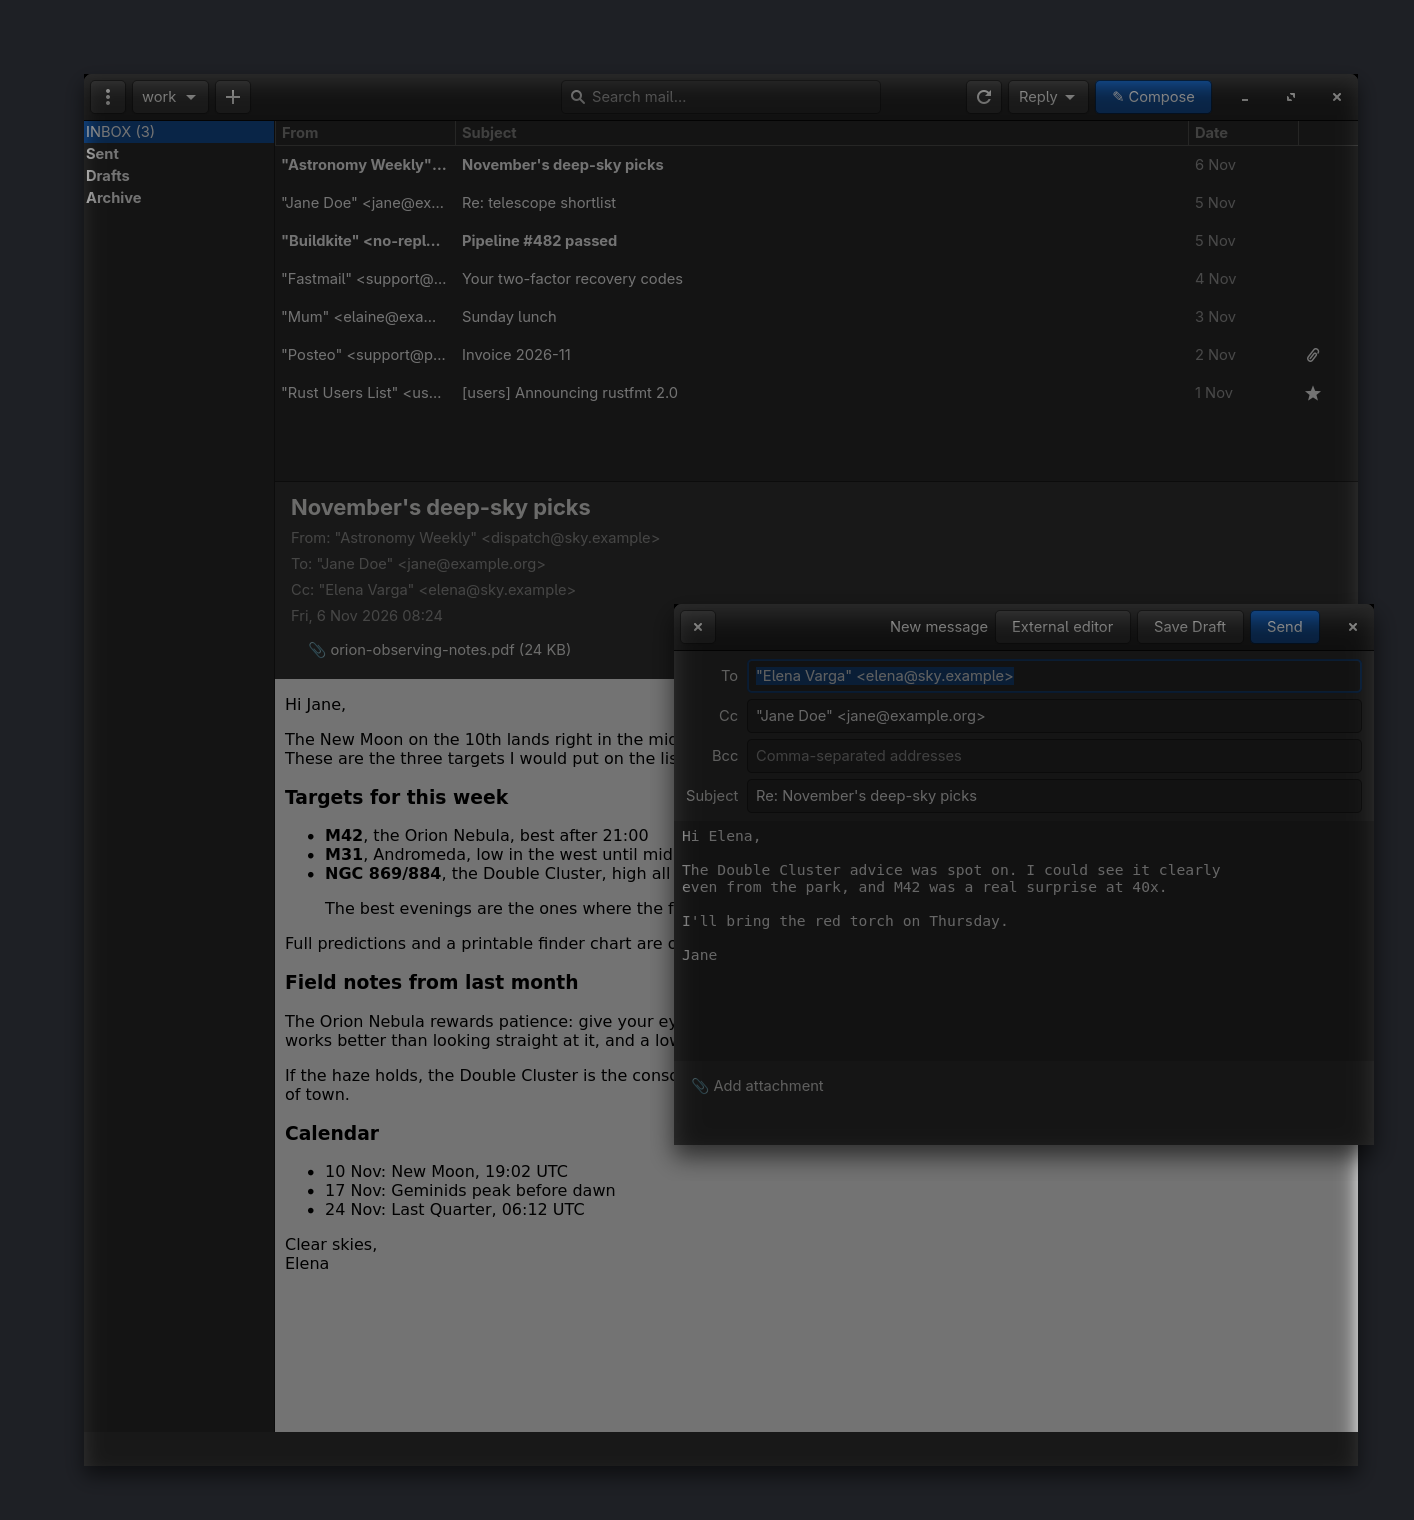
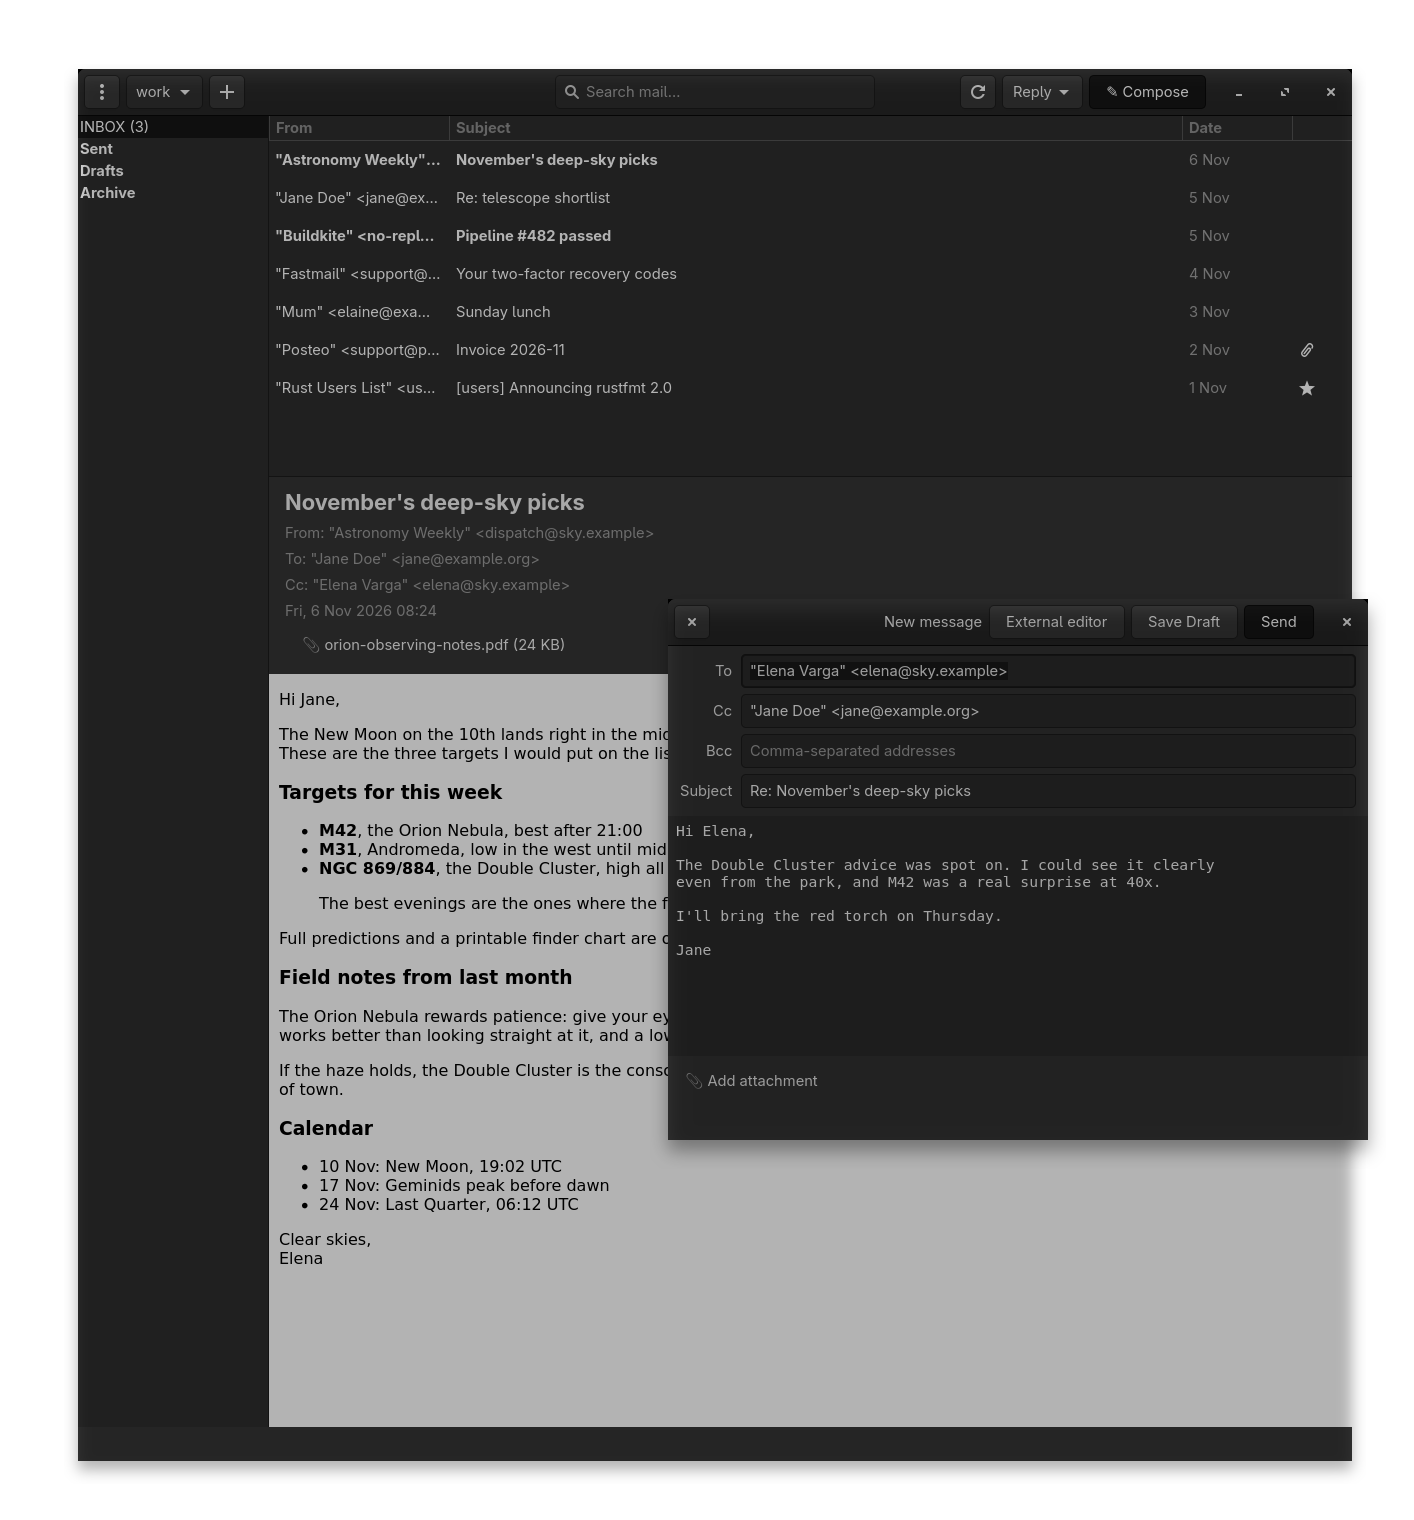
fix(preview): transparent canvas and a tight drop shadow
The preview composited onto an opaque dark canvas with a wide 50% shadow
(blur 16) that spread a grey fog across the light mail body, which read
as an inverted shadow (light edges, dark inside). The canvas is now
transparent (alpha 0 at the corners) so the README image sits on any
page background, and the shadows are small, close to the window edge and
pure black at low alpha: 26% at the edge, fading out over ~20px.

diff --git a/internal/ui/preview_test.go b/internal/ui/preview_test.go
@@ -29,11 +29,10 @@ import (
 // on Wayland desktops): that is where `ffmpeg -f x11grab` reads the
 // windows.
 const (
-	previewChildEnv  = "BTCX_PREVIEW_CHILD"
-	previewOutEnv    = "BTCX_PREVIEW_OUT"
-	previewXIDsEnv   = "BTCX_PREVIEW_XIDS"
-	previewQuitMs    = 9_000 // child lifetime; the parent captures well before it
-	previewCanvasHex = "#1e2025"
+	previewChildEnv = "BTCX_PREVIEW_CHILD"
+	previewOutEnv   = "BTCX_PREVIEW_OUT"
+	previewXIDsEnv  = "BTCX_PREVIEW_XIDS"
+	previewQuitMs   = 9_000 // child lifetime; the parent captures well before it
 )
 
 // TestPreviewScreenshot spawns the child (which shows the scene), then
@@ -199,22 +198,28 @@ func layerPreview(work, out string) error {
 		return nil
 	}
 	shadow := func(src, dst, spec string) error {
-		return run(src,
+		return run(src, "-alpha", "set",
 			"(", "+clone", "-background", "black", "-shadow", spec, ")",
 			"-background", "none", "-layers", "merge", "+repage", dst)
 	}
 
+	// Tight drop shadows: a small blur close to the window edge reads as
+	// a shadow; a wide one turns into a grey fog across light mail bodies
+	// (and looks inverted there). The source windows are opaque, so give
+	// the shadow an explicit alpha to blur before layering it underneath.
 	mainS := filepath.Join(work, "main_s.png")
-	if err := shadow(mainPath, mainS, "55x10+0+10"); err != nil {
+	if err := shadow(mainPath, mainS, "30x7+0+9"); err != nil {
 		return err
 	}
 	composeS := filepath.Join(work, "compose_s.png")
-	if err := shadow(composePath, composeS, "60x12+0+12"); err != nil {
+	if err := shadow(composePath, composeS, "35x9+0+11"); err != nil {
 		return err
 	}
+	// Transparent canvas: the preview must sit on any page background,
+	// so nothing is drawn behind the windows but the drop shadows.
 	canvas := filepath.Join(work, "canvas.png")
 	if err := run("-size", fmt.Sprintf("%dx%d", canvasW, canvasH),
-		"xc:"+previewCanvasHex, canvas); err != nil {
+		"xc:none", canvas); err != nil {
 		return err
 	}
 	return run(canvas, mainS,
